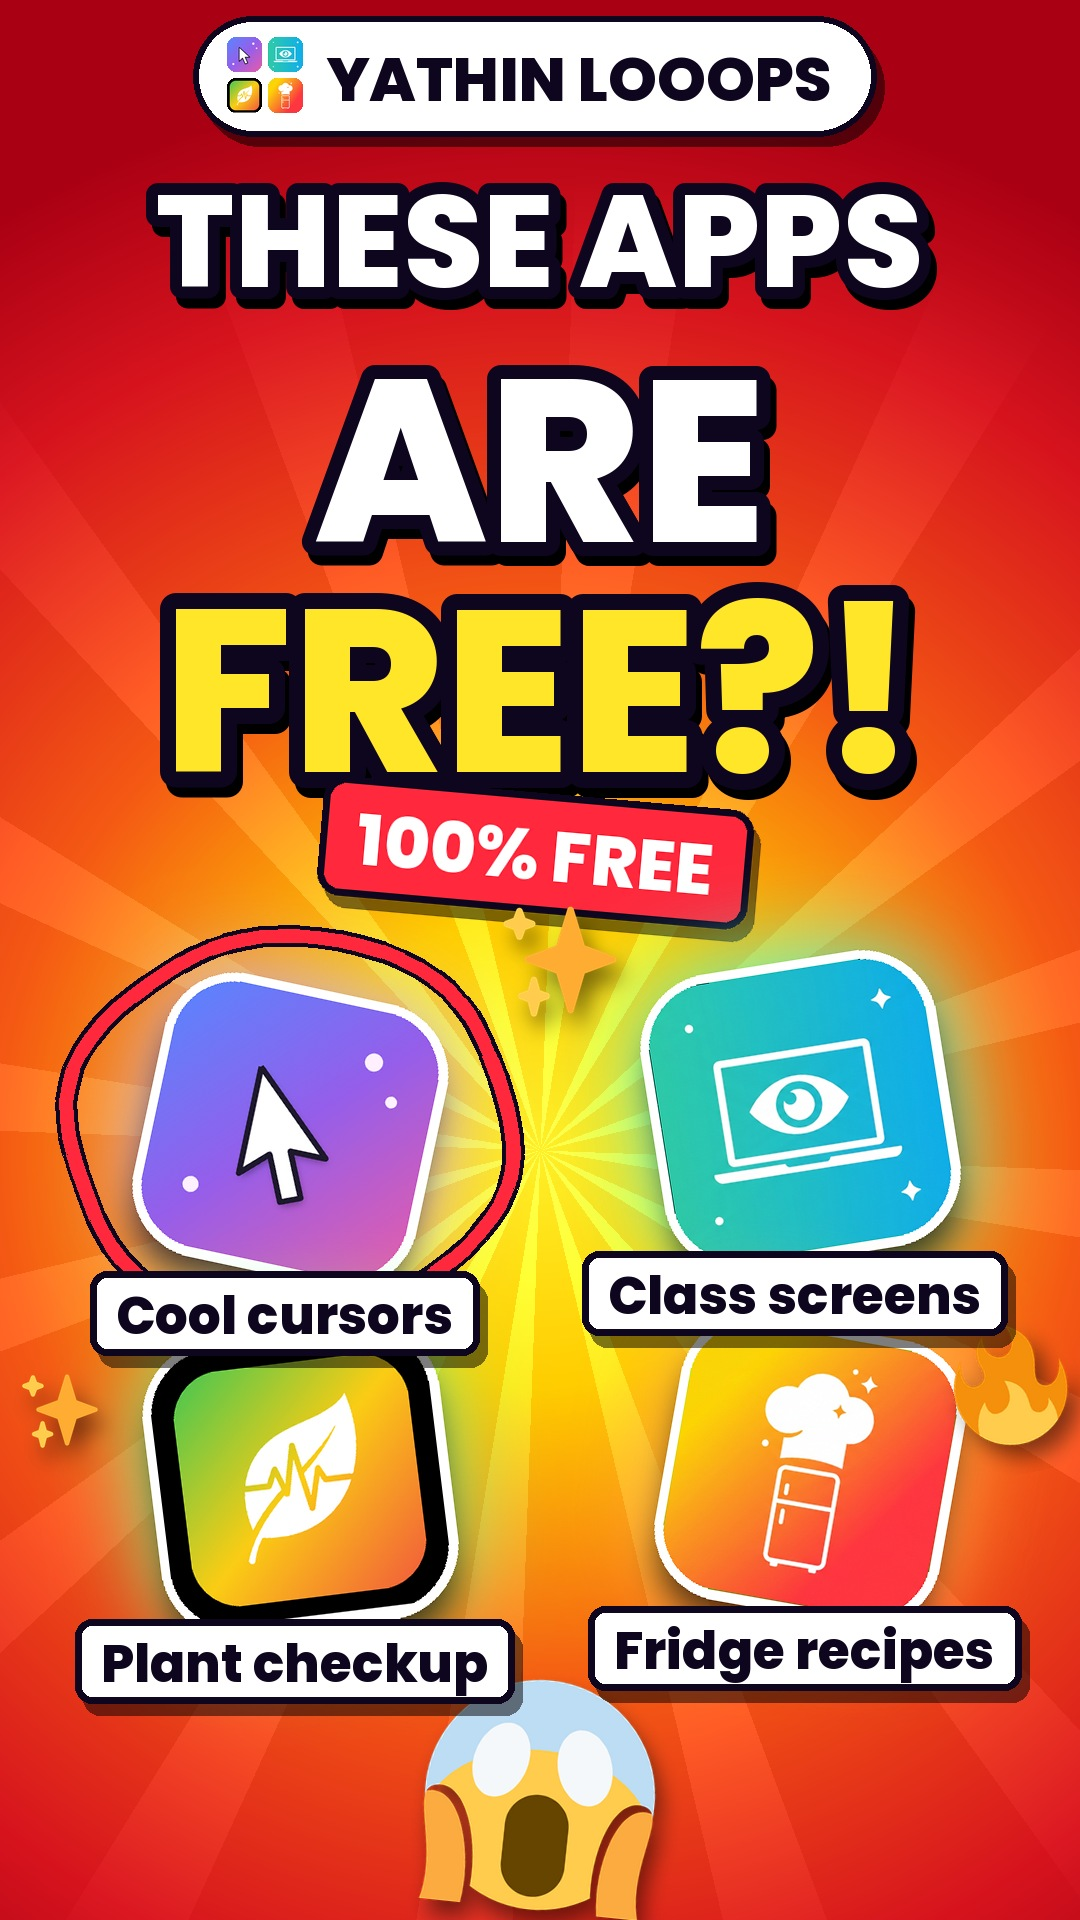
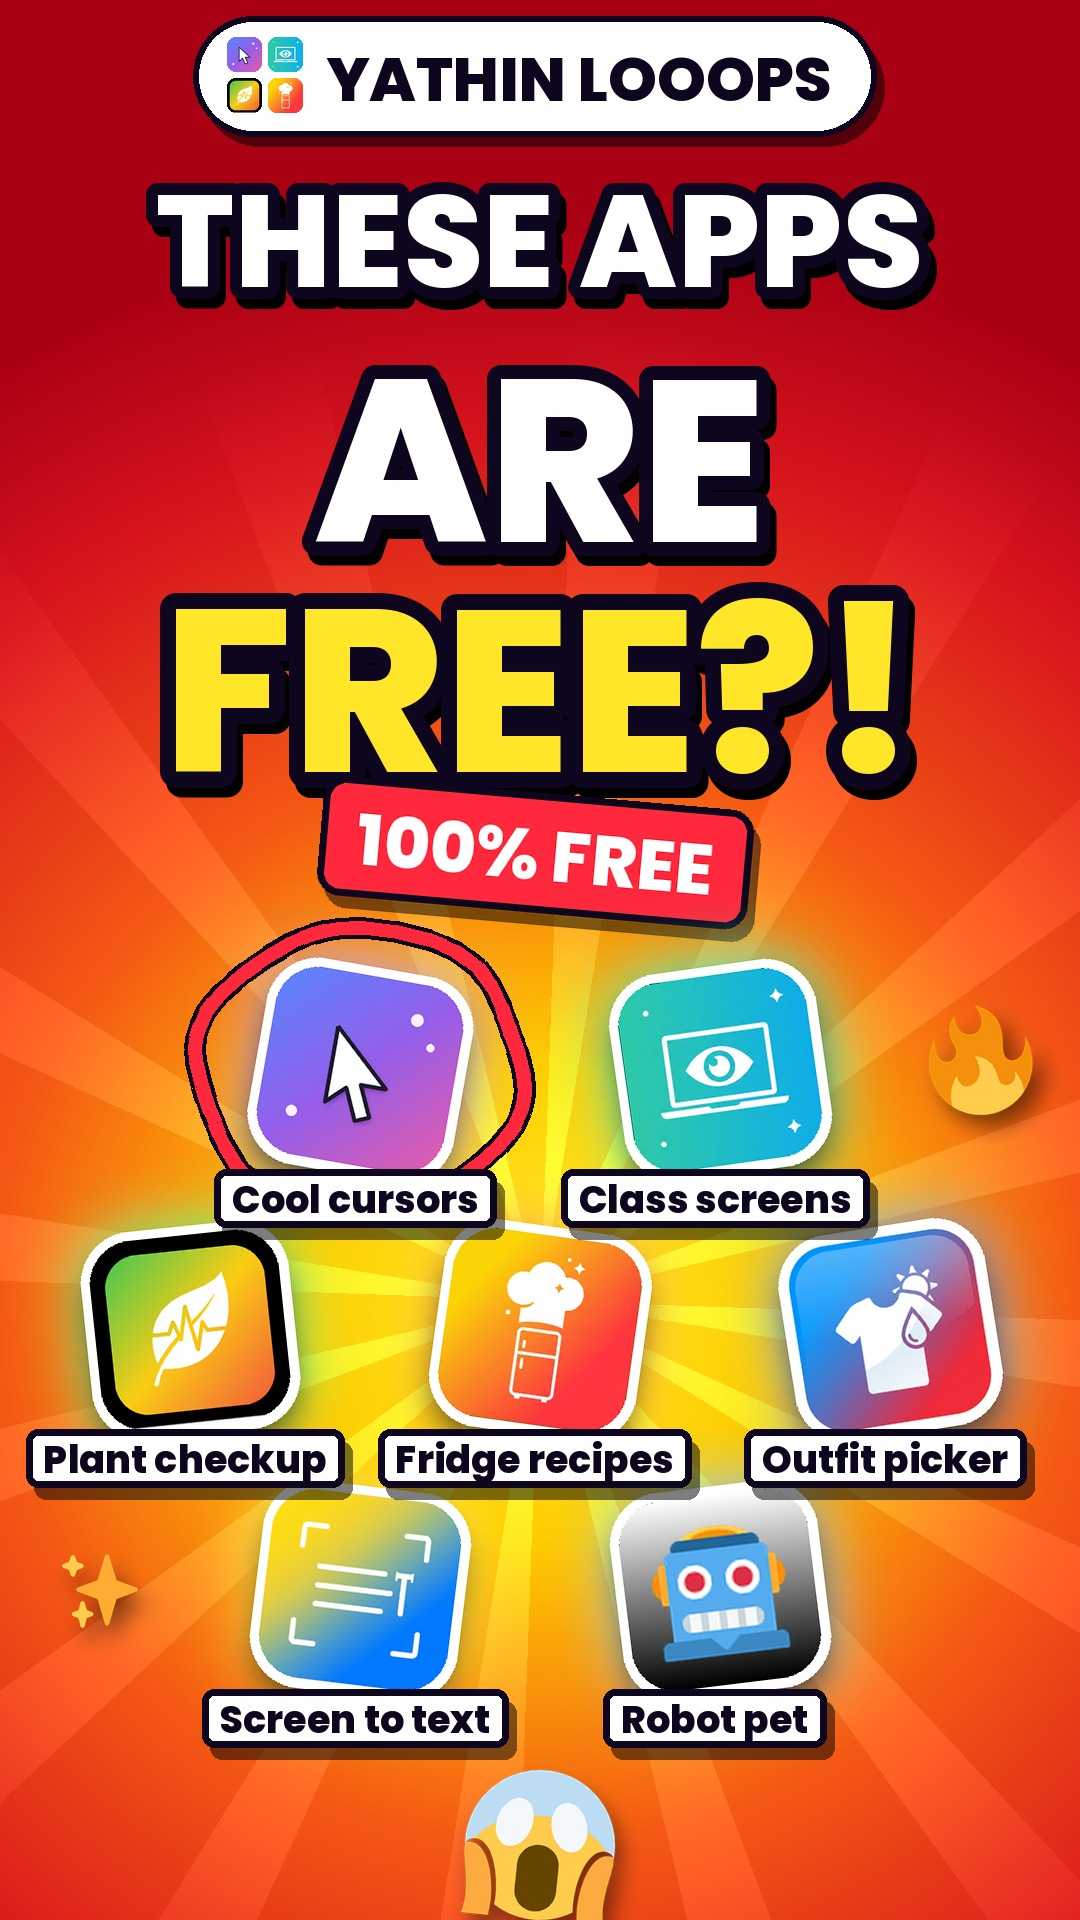
Hub thumbnails: all 7 apps [skip ci]

diff --git a/videos/thumbnails/make_yathin_thumbnail.py b/videos/thumbnails/make_yathin_thumbnail.py
@@ -2,8 +2,8 @@ from PIL import Image, ImageDraw, ImageFont, ImageFilter
 import numpy as np, math
 F='/workspace/work/fonts/Poppins-ExtraBold.ttf'
 E='/workspace/work/fonts/e_%s.png'
-ICONS=['../magiccursor/logo.png','../classview/classview_icon.png','../plantdoc/plantdoc_icon.png','../fridgechef/fridgechef_icon.png']
-GLOW=[(200,170,255),(80,240,220),(120,255,150),(255,180,80)]
+ICONS=['../magiccursor/logo.png','../classview/classview_icon.png','../plantdoc/plantdoc_icon.png','../fridgechef/fridgechef_icon.png','../whattowear/whattowear_icon_sq.png','../screenread/screenread_icon_sq.png','../finko/finko_icon.png']
+GLOW=[(200,170,255),(80,240,220),(120,255,150),(255,180,80),(120,170,255),(255,240,90),(150,210,255)]
 INK=(14,6,30)
 def rr(im,r):
     m=Image.new('L',im.size,0); ImageDraw.Draw(m).rounded_rectangle([0,0,im.size[0]-1,im.size[1]-1],r,fill=255); im=im.convert('RGBA'); im.putalpha(m); return im
@@ -57,46 +57,47 @@ def brand(bg,center,size,rot=0):
     d.rounded_rectangle([8,12,W+8,H+10],H//2,fill=(0,0,0,130))
     d.rounded_rectangle([0,0,W,H],H//2,fill=(255,255,255),outline=INK,width=6)
     x0=int(size*.55); y0=(H-g)//2
-    for k,p in enumerate(ICONS):
+    for k,p in enumerate(ICONS[:4]):
         ic=rr(Image.open(p).convert('RGB').resize((cell,cell),Image.LANCZOS),int(cell*.25)); L.alpha_composite(ic,(x0+(k%2)*(cell+6),y0+(k//2)*(cell+6)))
     d.text((x0+g+size*.35,(H-size*1.25)/2-2),t,font=f,fill=INK)
     paste_rot(bg,L,center,rot)
-LABELS=['Cool cursors','Class screens','Plant checkup','Fridge recipes']
+LABELS=['Cool cursors','Class screens','Plant checkup','Fridge recipes','Outfit picker','Screen to text','Robot pet']
+def place(bg,pts,size,lsize,off,rr_=None,rw=12):
+    for k,(p,(x,y),g) in enumerate(zip(ICONS,pts,GLOW)): icon(bg,p,size,(x,y),[-10,8,6,-8,9,-7,7][k],g)
+    if rr_: ring(bg,pts[0],rr_,rw)
+    labels(bg,[(x,y+off) for x,y in pts],lsize)
 def labels(bg,pts,size):
     for t,(x,y) in zip(LABELS,pts): sticker(bg,t,(x,y),size,0,fill=(255,255,255),fg=INK)
 # ---- wide 1280x720
-bg=bgimg(1280,720,930,360); d=ImageDraw.Draw(bg)
-for p,s,pos,r,g in zip(ICONS,[175,185,185,175],[(820,175),(1100,215),(850,500),(1130,520)],[-12,9,7,-10],GLOW): icon(bg,p,s,pos,r,g)
-ring(bg,(820,175),140)
-emoji(bg,'2728',80,(975,420),0); emoji(bg,'1f525',90,(1235,415),12)
+bg=bgimg(1280,720,980,380); d=ImageDraw.Draw(bg)
+P=[(880,165),(1080,165),(780,375),(980,375),(1180,375),(880,585),(1080,585)]
+place(bg,P,130,23,92,105)
+emoji(bg,'2728',70,(1215,560),0); emoji(bg,'1f525',80,(1225,170),12)
 f1=ImageFont.truetype(F,96); f2=ImageFont.truetype(F,150)
 text(d,(46,40),'THESE APPS',f1,'white'); text(d,(40,140),'ARE',f2,'white'); text(d,(40,300),'FREE?!',f2,(255,230,40),12)
-emoji(bg,'1f631',200,(560,600),-8)
+emoji(bg,'1f631',190,(570,600),-8)
 sticker(bg,'100% FREE',(240,585),62,-6)
-arrow(bg,curve((540,330),(620,250),(700,215)))
-labels(bg,[(820,300),(1100,345),(850,628),(1120,645)],32)
-brand(bg,(1085,52),34)
+arrow(bg,curve((560,300),(640,170),(760,160)))
+brand(bg,(1060,46),30)
 bg.convert('RGB').save('thumbnails/yathin-thumbnail.jpg',quality=93)
 # ---- square 1080x1080
-bg=bgimg(1080,1080,540,700); d=ImageDraw.Draw(bg)
-for p,s,pos,r,g in zip(ICONS,[200,210,210,200],[(300,575),(790,560),(320,880),(800,870)],[-12,9,7,-10],GLOW): icon(bg,p,s,pos,r,g)
-ring(bg,(300,575),158)
-emoji(bg,'1f631',200,(555,770),-6); emoji(bg,'2728',80,(545,520),0); emoji(bg,'1f525',90,(1000,560),12)
+bg=bgimg(1080,1080,540,760); d=ImageDraw.Draw(bg)
+P=[(430,545),(650,545),(240,755),(540,755),(840,755),(430,960),(650,960)]
+place(bg,P,135,26,92,108)
+emoji(bg,'1f631',150,(120,545),-6); emoji(bg,'2728',70,(960,960),0); emoji(bg,'1f525',90,(900,545),12)
 f1=ImageFont.truetype(F,104); f2=ImageFont.truetype(F,170)
-for y,t,f,c in [(40,'THESE APPS ARE',f1,'white'),(165,'FREE?!',f2,(255,230,40))]:
+for y,t,f,c in [(30,'THESE APPS ARE',f1,'white'),(150,'FREE?!',f2,(255,230,40))]:
     tw=d.textlength(t,font=f); text(d,((1080-tw)/2,y),t,f,c,12)
-sticker(bg,'100% FREE',(300,400),50,-5); brand(bg,(780,400),40,3)
-labels(bg,[(300,722),(790,707),(320,1030),(800,1020)],38)
+sticker(bg,'100% FREE',(290,395),48,-5); brand(bg,(770,395),38,3)
 bg.convert('RGB').save('thumbnails/yathin-thumbnail-square.jpg',quality=93)
 # ---- vertical 1080x1920
-bg=bgimg(1080,1920,540,1150); d=ImageDraw.Draw(bg)
+bg=bgimg(1080,1920,540,1300); d=ImageDraw.Draw(bg)
 fa=ImageFont.truetype(F,130); fb=ImageFont.truetype(F,230)
 for y,t,f,c,sw in [(150,'THESE APPS',fa,'white',12),(300,'ARE',fb,'white',14),(530,'FREE?!',fb,(255,230,40),16)]:
     tw=d.textlength(t,font=f); text(d,((1080-tw)/2,y),t,f,c,sw)
 sticker(bg,'100% FREE',(540,860),70,-5); brand(bg,(540,82),62)
-for p,s,pos,r,g in zip(ICONS,[270,280,280,270],[(290,1130),(800,1110),(300,1480),(810,1470)],[-12,9,7,-10],GLOW): icon(bg,p,s,pos,r,g)
-ring(bg,(290,1130),205,14)
-emoji(bg,'2728',120,(560,960),0); emoji(bg,'1f525',120,(1010,1385),12); emoji(bg,'2728',80,(60,1410),0)
-emoji(bg,'1f631',230,(540,1795),-6)
-labels(bg,[(290,1320),(800,1300),(300,1668),(810,1655)],52)
+P=[(360,1070),(720,1070),(190,1330),(540,1330),(890,1330),(360,1590),(720,1590)]
+place(bg,P,190,38,135,150,14)
+emoji(bg,'1f525',110,(980,1060),12); emoji(bg,'2728',80,(100,1590),0)
+emoji(bg,'1f631',150,(540,1845),-6)
 bg.convert('RGB').save('thumbnails/yathin-thumbnail-vertical.jpg',quality=93)
